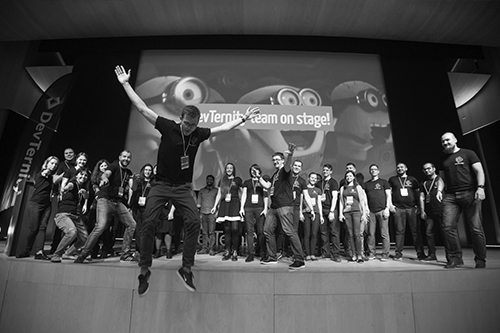
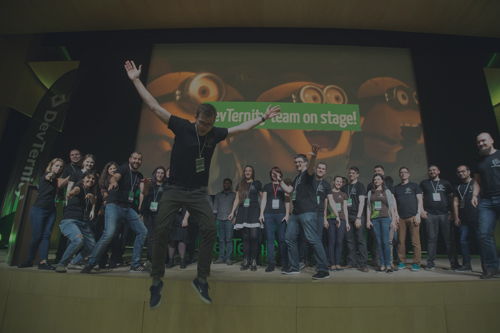
Update 2018-04-09T02:36:38.251Z

diff --git a/rix/2017/index.html b/rix/2017/index.html
@@ -69,7 +69,7 @@
               "@type": "Offer",
               "name": "Workshop",        
               "url": "https://docs.google.com/forms/d/e/1FAIpQLSezFNvjgxEfnxpSvRHy7XHdHlSG2cvTJhULCbvN12OQqUMMPg/viewform?workshop",
-              "validFrom": "2018-04-09T02:27:26.936Z",
+              "validFrom": "2018-04-09T02:34:01.601Z",
               "price": "249",
               "priceCurrency": "EUR",
               "availability": "http://schema.org/InStock"
@@ -958,7 +958,7 @@
         <div class="row">
           <section class="6u 12u$(small)">
             <h3>Organisers</h3>
-            <p>DevTernity is organised with love <i class="fa fa-heart" style="color: red;" aria-hidden="true"></i> and care <i class="fa fa-leaf" style="color: #4dac71;" aria-hidden="true"></i>  by the leaders of Latvian software craftsmanship community: </p><img class="lazy" data-src="images/team.jpg" style="width:85%;">
+            <p>DevTernity is organised with love <i class="fa fa-heart" style="color: red;" aria-hidden="true"></i> and care <i class="fa fa-leaf" style="color: #4dac71;" aria-hidden="true"></i>  by the leaders of Latvian software craftsmanship community: </p><img class="lazy" data-src="images/team.jpg">
           </section>
           <section class="6u 12u$(small)">
             <h3>

diff --git a/index.html b/index.html
@@ -69,7 +69,7 @@
               "@type": "Offer",
               "name": "Workshop",        
               "url": "https://devternity.com/registration?workshop",
-              "validFrom": "2018-04-09T02:27:26.954Z",
+              "validFrom": "2018-04-09T02:34:01.620Z",
               "price": "299",
               "priceCurrency": "EUR",
               "availability": "http://schema.org/InStock"
@@ -773,7 +773,7 @@
         <div class="row">
           <section class="6u 12u$(small)">
             <h3>Organisers</h3>
-            <p>DevTernity is organised with love <i class="fa fa-heart" style="color: red;" aria-hidden="true"></i> and care <i class="fa fa-leaf" style="color: #4dac71;" aria-hidden="true"></i>  by the leaders of Latvian software craftsmanship community: </p><img class="lazy" data-src="images/team.jpg" style="width:85%;">
+            <p>DevTernity is organised with love <i class="fa fa-heart" style="color: red;" aria-hidden="true"></i> and care <i class="fa fa-leaf" style="color: #4dac71;" aria-hidden="true"></i>  by the leaders of Latvian software craftsmanship community: </p><img class="lazy" data-src="images/team.jpg">
           </section>
           <section class="6u 12u$(small)">
             <h3>
